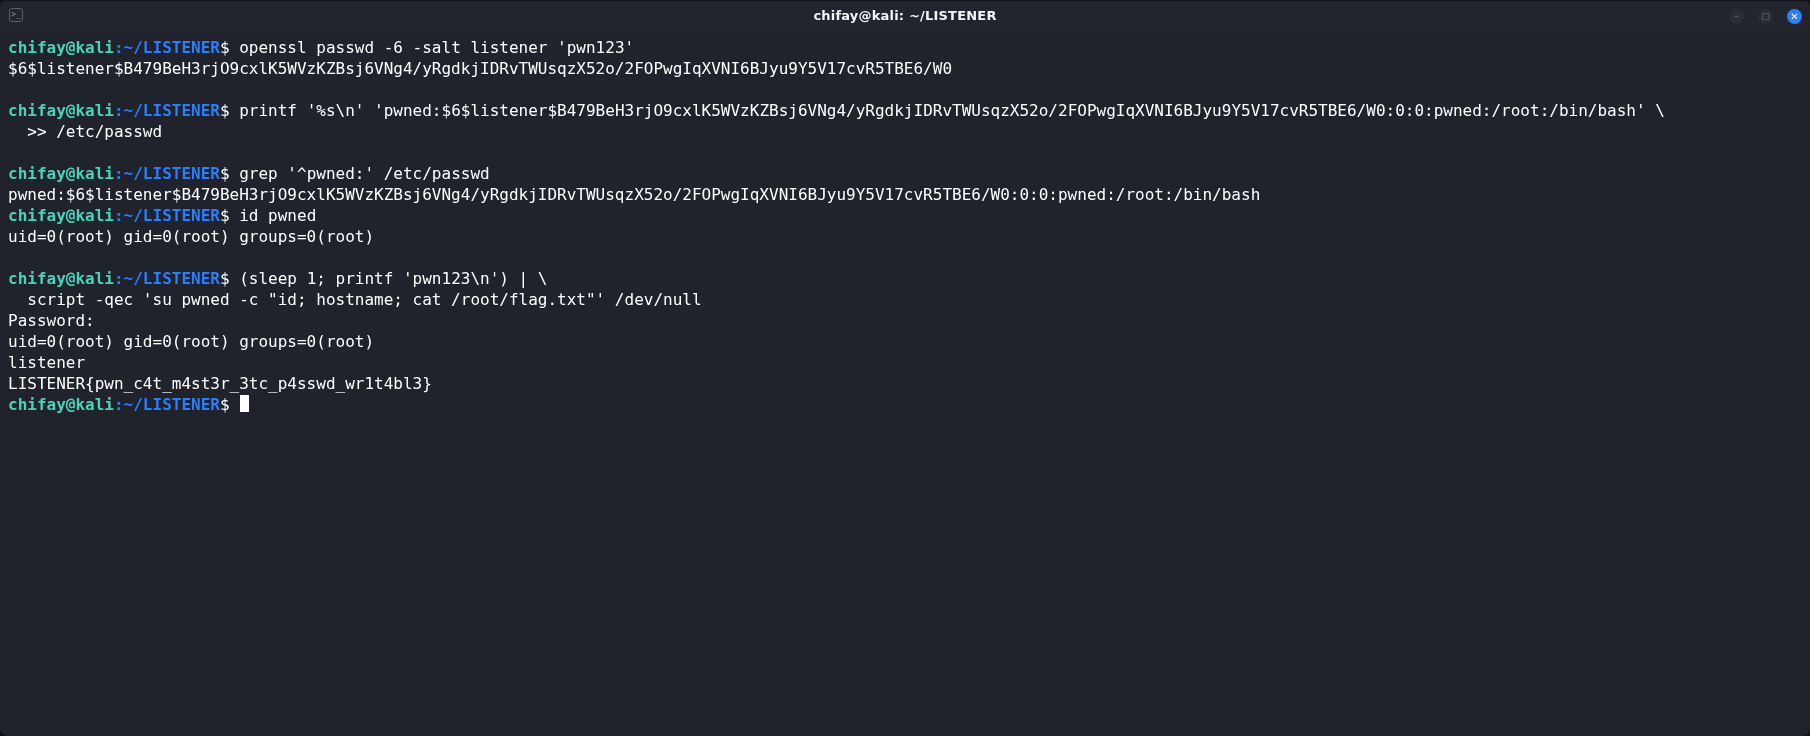
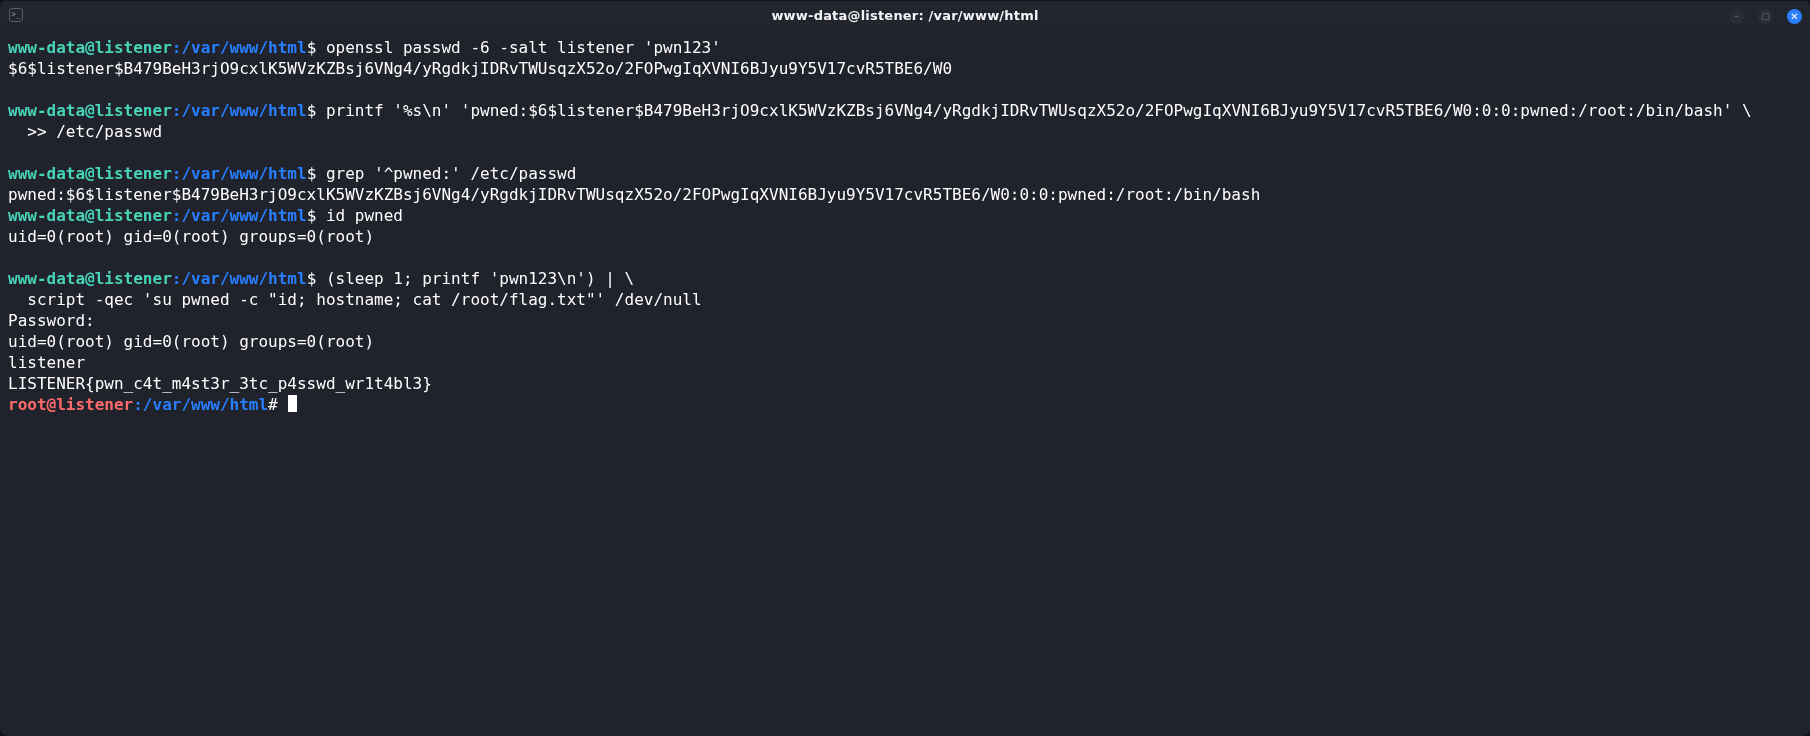
Add files via upload

diff --git a/Difícil/LISTENER/README.md b/Difícil/LISTENER/README.md
@@ -1,7 +1,7 @@
 # LISTENER — Writeup de resolución
 
 **Laboratorio:** LISTENER  
-**Nivel:** Difícil  
+**Nivel:** Hard  
 **Categoría:** Concept & Beginner  
 **Autor:** chifay  
 **Fecha:** 2026-10-29  
@@ -347,7 +347,7 @@ cat /etc/apache2/conf-enabled/uploads-php.conf
 
 ![Configuración de Apache que ejecuta todo /uploads](evidencia/11-apache-uploads-php.png)
 
-*`SetHandler application/x-httpd-php` convierte todo `/uploads` en código ejecutable.*
+*`SetHandler application/x-httpd-php` convierte todo `/uploads` en código ejecutable; la configuración se leyó desde la sesión de `www-data`.*
 
 ### 4.4. Webshell de comandos
 
@@ -429,7 +429,7 @@ pwncat-cs -lp 4444
 
 ![Listener TCP y reverse shell](evidencia/07-listener-revshell.png)
 
-*El objetivo abre una conexión saliente hacia `172.17.0.1:4444`; el `curl` que la dispara se ejecutó desde otra terminal.*
+*El objetivo abre una conexión saliente hacia `172.17.0.1:4444`; el `curl` que la dispara se ejecutó desde otra terminal. El prompt final `www-data@listener:/var/www/html$` representa la variante interactiva (`bash -i`); el callback registrado en `evidencia/07-listener-revshell.txt` fue el no interactivo, que imprime la flag y cierra la conexión.*
 
 ---
 
@@ -512,7 +512,7 @@ ls -la /etc/passwd
 
 ![Enumeración local: /etc/passwd escribible](evidencia/08-post-enum.png)
 
-*`/etc/passwd` es escribible por cualquier usuario local.*
+*`/etc/passwd` es escribible por cualquier usuario local; la sesión ya se ejecuta en el objetivo como `www-data`.*
 
 ### 5.3. Servicios internos
 
@@ -610,7 +610,7 @@ LISTENER{pwn_c4t_m4st3r_3tc_p4sswd_wr1t4bl3}
 
 ![Escalada a root mediante /etc/passwd](evidencia/09-privesc-root.png)
 
-*La cuenta `pwned` tiene UID `0`; `su` devuelve una sesión `root`.*
+*La cuenta `pwned` tiene UID `0`; tras `su`, el prompt cambia a `root@listener`.*
 
 ### 6.4. Flag de root
 
@@ -633,7 +633,7 @@ LISTENER{pwn_c4t_m4st3r_3tc_p4sswd_wr1t4bl3}
 
 ![Flags de usuario y root](evidencia/10-flags.png)
 
-*Ambas flags leídas desde el sistema comprometido.*
+*Ambas flags leídas desde el sistema comprometido; la segunda, ya con prompt de `root@listener`.*
 
 ### 7.1. Validación en la plataforma
 
